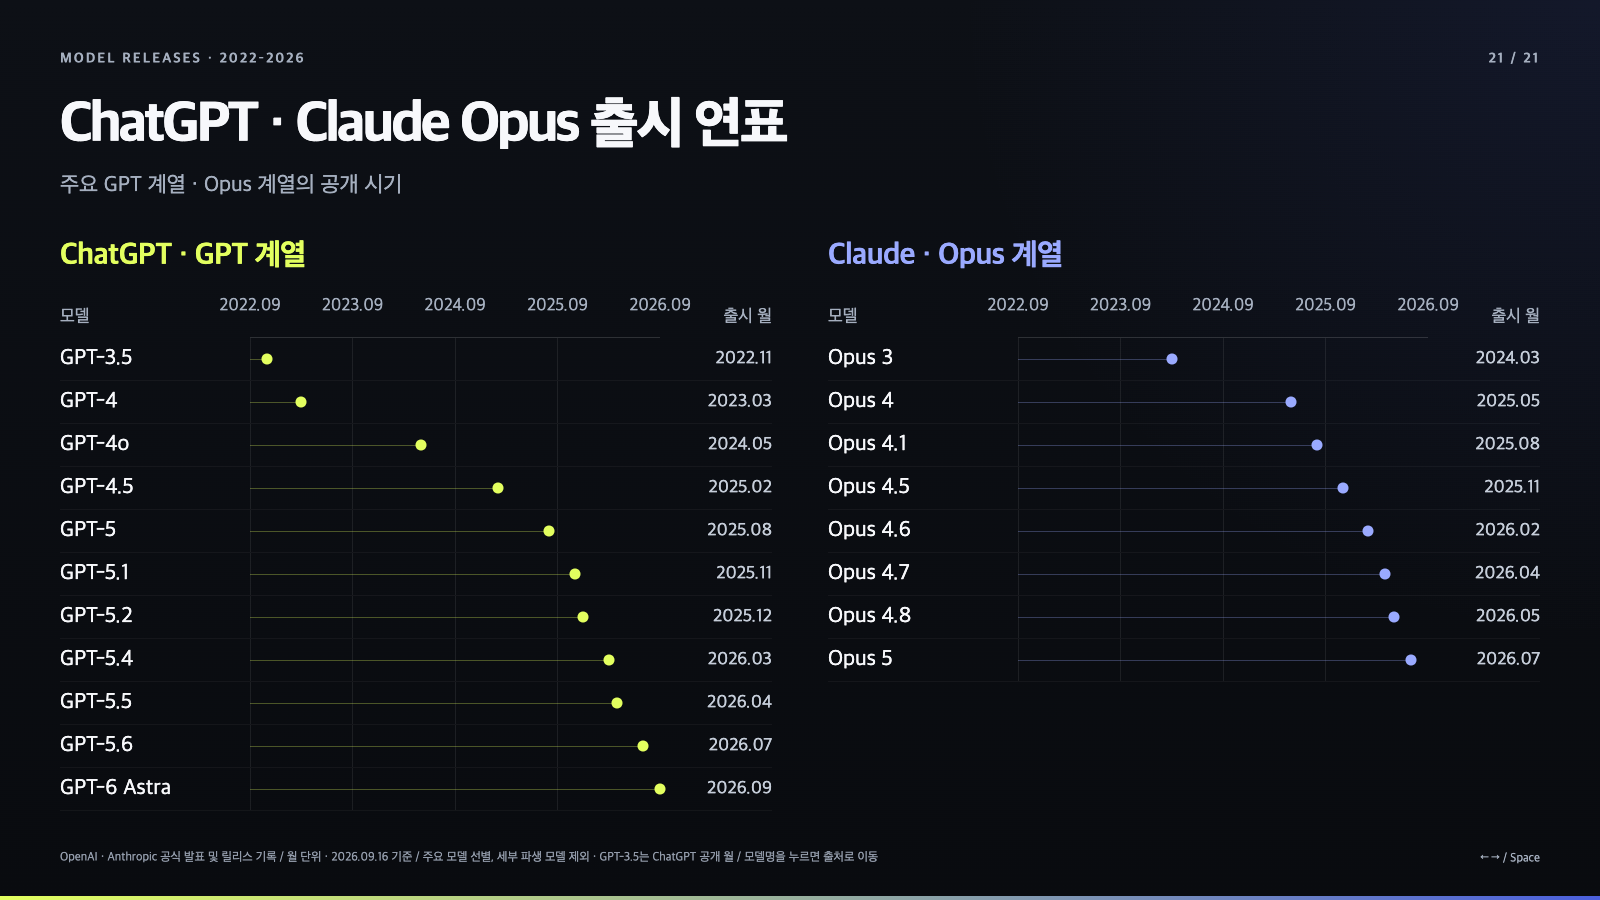
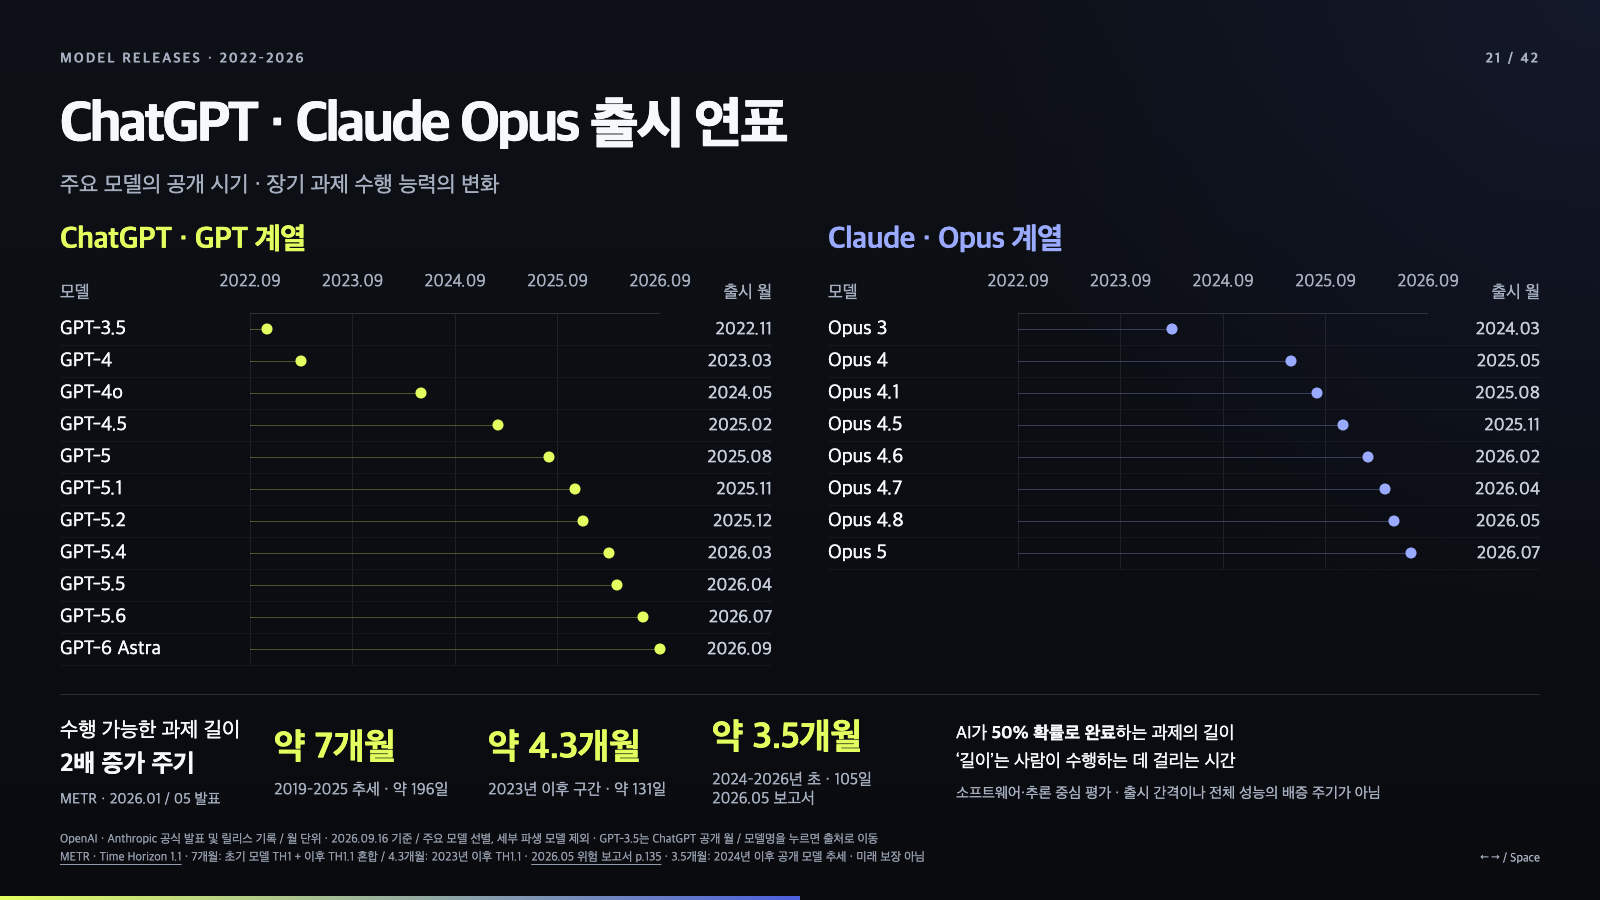
feat(slides): add task horizon doubling rates

diff --git a/newbie2/index.html b/newbie2/index.html
@@ -215,6 +215,8 @@ sup{font-size:.55em;vertical-align:super;letter-spacing:-.01em}
 .go-return{grid-template-rows:minmax(0,1fr) auto auto;gap:25px}.go-history-images{display:grid;grid-template-columns:1fr 1fr 1fr;gap:28px;min-height:0}.go-use-cases{display:grid;grid-template-columns:repeat(3,minmax(0,1fr));gap:28px}.go-use-cases>div{border-top:1px solid var(--line);padding-top:18px}.go-use-cases h3{font-size:26px;color:var(--lime);margin:0 0 12px}.go-use-cases p{font-size:23px;line-height:1.5;margin:0}.go-question{font-size:30px;line-height:1.4;margin:0;color:var(--lime)}
 
 .go-analysis-stage{grid-template-rows:minmax(0,1fr) auto;gap:24px}.go-analysis-main{display:grid;grid-template-columns:2.25fr 1fr;gap:30px;min-height:0}.go-analysis-side{display:flex;flex-direction:column;justify-content:space-between;gap:20px;min-height:0}.go-history-mini{height:138px;display:grid;grid-template-columns:1fr 1fr;gap:15px;flex:none}.go-history-mini figcaption{font-size:15px}.go-analysis-readout h3{font-size:24px;color:var(--lime);margin:0 0 22px}.go-analysis-readout p{font-size:22px;line-height:1.5;margin:16px 0}.go-analysis-readout b{font-size:18px;display:block;color:var(--muted);margin-bottom:5px}.go-analysis-context{font-size:22px;line-height:1.5;margin:0;border-top:1px solid var(--line);padding-top:16px}
+
+.release-with-performance .release-row{height:32px;font-size:20px}.release-with-performance .release-chart h3{margin-bottom:14px}.release-with-performance .release-charts{flex:1;padding-top:0}.release-with-performance .titleblock{padding-bottom:20px}.performance-band{flex:none;display:grid;grid-template-columns:190px 190px 200px 220px minmax(0,1fr);gap:24px;align-items:center;border-top:1px solid var(--line);padding-top:20px;margin-top:15px;min-height:108px}.performance-label{font-size:21px;line-height:1.5}.performance-label strong{font-size:25px}.performance-label small{display:block;font-size:15px;color:var(--muted);margin-top:5px}.performance-stat strong{font-size:36px;color:var(--lime);display:block;line-height:1.25}.performance-stat span{font-size:16px;color:var(--muted);display:block;margin-top:10px}.performance-definition{font-size:18px;line-height:1.6}.performance-definition small{font-size:15px;color:var(--muted);display:block;margin-top:5px}
 </style>
 </head>
 <body>
@@ -356,11 +358,12 @@ sup{font-size:.55em;vertical-align:super;letter-spacing:-.01em}
   <div class="footer"><div class="source"></div><div class="nav">← → / Space</div></div>
 </section>
 
-<section class="slide">
+<section class="slide release-with-performance">
   <div class="header"><div class="kicker">MODEL RELEASES · 2022–2026</div><div class="page"></div></div>
-  <div class="titleblock"><h2>ChatGPT · Claude Opus 출시 연표</h2><p class="sub">주요 GPT 계열 · Opus 계열의 공개 시기</p></div>
+  <div class="titleblock"><h2>ChatGPT · Claude Opus 출시 연표</h2><p class="sub">주요 모델의 공개 시기 · 장기 과제 수행 능력의 변화</p></div>
   <div class="stage equal release-charts"><div class="release-chart "><h3>ChatGPT · GPT 계열</h3><div class="release-axis"><span>모델</span><div class="ticks"><span style="--at:0%">2022.09</span><span style="--at:25%">2023.09</span><span style="--at:50%">2024.09</span><span style="--at:75%">2025.09</span><span style="--at:100%">2026.09</span></div><span style="text-align:right">출시 월</span></div><div class="release-row"><a href="https://openai.com/index/chatgpt/" target="_blank" rel="noopener noreferrer">GPT-3.5</a><div class="plot" style="--at:4.166667%" aria-hidden="true"><span class="dot"></span></div><time datetime="2022-11">2022.11</time></div><div class="release-row"><a href="https://openai.com/index/gpt-4-research/" target="_blank" rel="noopener noreferrer">GPT-4</a><div class="plot" style="--at:12.500000%" aria-hidden="true"><span class="dot"></span></div><time datetime="2023-03">2023.03</time></div><div class="release-row"><a href="https://developers.openai.com/api/docs/changelog" target="_blank" rel="noopener noreferrer">GPT-4o</a><div class="plot" style="--at:41.666667%" aria-hidden="true"><span class="dot"></span></div><time datetime="2024-05">2024.05</time></div><div class="release-row"><a href="https://developers.openai.com/api/docs/changelog" target="_blank" rel="noopener noreferrer">GPT-4.5</a><div class="plot" style="--at:60.416667%" aria-hidden="true"><span class="dot"></span></div><time datetime="2025-02">2025.02</time></div><div class="release-row"><a href="https://developers.openai.com/api/docs/changelog" target="_blank" rel="noopener noreferrer">GPT-5</a><div class="plot" style="--at:72.916667%" aria-hidden="true"><span class="dot"></span></div><time datetime="2025-08">2025.08</time></div><div class="release-row"><a href="https://developers.openai.com/api/docs/changelog" target="_blank" rel="noopener noreferrer">GPT-5.1</a><div class="plot" style="--at:79.166667%" aria-hidden="true"><span class="dot"></span></div><time datetime="2025-11">2025.11</time></div><div class="release-row"><a href="https://developers.openai.com/api/docs/changelog" target="_blank" rel="noopener noreferrer">GPT-5.2</a><div class="plot" style="--at:81.250000%" aria-hidden="true"><span class="dot"></span></div><time datetime="2025-12">2025.12</time></div><div class="release-row"><a href="https://developers.openai.com/api/docs/changelog" target="_blank" rel="noopener noreferrer">GPT-5.4</a><div class="plot" style="--at:87.500000%" aria-hidden="true"><span class="dot"></span></div><time datetime="2026-03">2026.03</time></div><div class="release-row"><a href="https://developers.openai.com/api/docs/changelog" target="_blank" rel="noopener noreferrer">GPT-5.5</a><div class="plot" style="--at:89.583333%" aria-hidden="true"><span class="dot"></span></div><time datetime="2026-04">2026.04</time></div><div class="release-row"><a href="https://developers.openai.com/api/docs/changelog" target="_blank" rel="noopener noreferrer">GPT-5.6</a><div class="plot" style="--at:95.833333%" aria-hidden="true"><span class="dot"></span></div><time datetime="2026-07">2026.07</time></div><div class="release-row"><a href="https://developers.openai.com/api/docs/changelog" target="_blank" rel="noopener noreferrer">GPT-6 Astra</a><div class="plot" style="--at:100.000000%" aria-hidden="true"><span class="dot"></span></div><time datetime="2026-09">2026.09</time></div></div><div class="release-chart opus"><h3>Claude · Opus 계열</h3><div class="release-axis"><span>모델</span><div class="ticks"><span style="--at:0%">2022.09</span><span style="--at:25%">2023.09</span><span style="--at:50%">2024.09</span><span style="--at:75%">2025.09</span><span style="--at:100%">2026.09</span></div><span style="text-align:right">출시 월</span></div><div class="release-row"><a href="https://www.anthropic.com/news/claude-3-family" target="_blank" rel="noopener noreferrer">Opus 3</a><div class="plot" style="--at:37.500000%" aria-hidden="true"><span class="dot"></span></div><time datetime="2024-03">2024.03</time></div><div class="release-row"><a href="https://www.anthropic.com/news/claude-4" target="_blank" rel="noopener noreferrer">Opus 4</a><div class="plot" style="--at:66.666667%" aria-hidden="true"><span class="dot"></span></div><time datetime="2025-05">2025.05</time></div><div class="release-row"><a href="https://www.anthropic.com/news/claude-opus-4-1" target="_blank" rel="noopener noreferrer">Opus 4.1</a><div class="plot" style="--at:72.916667%" aria-hidden="true"><span class="dot"></span></div><time datetime="2025-08">2025.08</time></div><div class="release-row"><a href="https://www.anthropic.com/news/claude-opus-4-5" target="_blank" rel="noopener noreferrer">Opus 4.5</a><div class="plot" style="--at:79.166667%" aria-hidden="true"><span class="dot"></span></div><time datetime="2025-11">2025.11</time></div><div class="release-row"><a href="https://www.anthropic.com/news/claude-opus-4-6" target="_blank" rel="noopener noreferrer">Opus 4.6</a><div class="plot" style="--at:85.416667%" aria-hidden="true"><span class="dot"></span></div><time datetime="2026-02">2026.02</time></div><div class="release-row"><a href="https://www.anthropic.com/news/claude-opus-4-7" target="_blank" rel="noopener noreferrer">Opus 4.7</a><div class="plot" style="--at:89.583333%" aria-hidden="true"><span class="dot"></span></div><time datetime="2026-04">2026.04</time></div><div class="release-row"><a href="https://www.anthropic.com/news/claude-opus-4-8" target="_blank" rel="noopener noreferrer">Opus 4.8</a><div class="plot" style="--at:91.666667%" aria-hidden="true"><span class="dot"></span></div><time datetime="2026-05">2026.05</time></div><div class="release-row"><a href="https://www.anthropic.com/news/claude-opus-5" target="_blank" rel="noopener noreferrer">Opus 5</a><div class="plot" style="--at:95.833333%" aria-hidden="true"><span class="dot"></span></div><time datetime="2026-07">2026.07</time></div></div></div>
-  <div class="footer"><div class="source">OpenAI · Anthropic 공식 발표 및 릴리스 기록 / 월 단위 · 2026.09.16 기준 / 주요 모델 선별, 세부 파생 모델 제외 · GPT-3.5는 ChatGPT 공개 월 / 모델명을 누르면 출처로 이동</div><div class="nav">← → / Space</div></div>
+<div class="performance-band"><div class="performance-label">수행 가능한 과제 길이<br><strong>2배 증가 주기</strong><small>METR · 2026.01 / 05 발표</small></div><div class="performance-stat"><strong>약 7개월</strong><span>2019–2025 추세 · 약 196일</span></div><div class="performance-stat"><strong>약 4.3개월</strong><span>2023년 이후 구간 · 약 131일</span></div><div class="performance-stat"><strong>약 3.5개월</strong><span>2024–2026년 초 · 105일<br>2026.05 보고서</span></div><div class="performance-definition">AI가 <b>50% 확률로 완료</b>하는 과제의 길이<br>‘길이’는 사람이 수행하는 데 걸리는 시간<br><small>소프트웨어·추론 중심 평가 · 출시 간격이나 전체 성능의 배증 주기가 아님</small></div></div>
+  <div class="footer"><div class="source">OpenAI · Anthropic 공식 발표 및 릴리스 기록 / 월 단위 · 2026.09.16 기준 / 주요 모델 선별, 세부 파생 모델 제외 · GPT-3.5는 ChatGPT 공개 월 / 모델명을 누르면 출처로 이동<br><a href="https://metr.org/blog/2026-1-29-time-horizon-1-1/" target="_blank" rel="noopener noreferrer">METR · Time Horizon 1.1</a> · 7개월: 초기 모델 TH1 + 이후 TH1.1 혼합 / 4.3개월: 2023년 이후 TH1.1 · <a href="https://metr.org/risk-report-feb-mar-2026.pdf#page=135" target="_blank" rel="noopener noreferrer">2026.05 위험 보고서 p.135</a> · 3.5개월: 2024년 이후 공개 모델 추세 · 미래 보장 아님</div><div class="nav">← → / Space</div></div>
 </section>
 
 <section class="slide cover"><h1>THE QUESTION</h1></section>

diff --git a/newbie2/review/slide-layout-review.md b/newbie2/review/slide-layout-review.md
@@ -83,3 +83,16 @@
 ## 2026-09-16 · newbie 자료 반영 / 53장
 
 THE ENGINEER 7장, THE CHOICE 5장 추가. 역사 사진 2개, 연구 원본 도표 3개, 사고 사진 1개를 로컬 참조. 기존 1–29장 보존. 53장 × 6 뷰포트 경계 검사 통과, JavaScript 오류 0. 이미지·페이지 이동 확인. 최신 렌더: engineer-choice-overview.png, slide-30.png–slide-53.png.
+
+
+## 21페이지 성능 향상 주기 추가 · 2026-09-17
+
+출시 연표 하단에 METR의 50% task-completion time horizon 배증 주기를 추가. 2026-01-29 Time Horizon 1.1 기준 장기 혼합 추세 196.5일(약 7개월), 2023년 이후 TH1.1 구간 130.8일(약 4.3개월). 평가 과제는 소프트웨어·추론 중심이며 ‘시간’은 사람이 과제를 수행할 시간이다. AI가 연속으로 동작하는 시간이 아니다. 모델 성능 전체·정확도·생산성·출시 간격이 2배가 된다는 뜻이 아니다. 기존 출시 모델 전체를 대상으로 계산한 배증 주기도 아니다.
+
+발표 예시: “출시 간격과 별개로, 수행할 수 있는 과제가 얼마나 길어졌는지도 측정합니다. METR의 이 지표에서는 과제 길이가 장기적으로 약 7개월, 2023년 이후 구간에서는 약 4.3개월마다 두 배가 되는 추세를 보였습니다.”
+
+과제 구성·회귀 구간·평가 환경에 따라 추정값이 달라지며 향후 고정 주기를 보장하지 않는다. 2026-03-20 METR은 평가 포화에 따라 모델링 선택에 대한 민감성이 커짐을 설명했으므로 최신 모델에 대한 무제한 외삽은 하지 않는다.
+출처: https://metr.org/blog/2026-1-29-time-horizon-1-1/ 및 https://metr.org/notes/2026-03-20-impact-of-modelling-assumptions-on-time-horizon-results/
+
+
+21페이지 추가 갱신: METR 2026년 5월 Frontier Risk Report 135쪽의 공개 모델 추세 배증 105일(약 3.5개월)을 함께 표시. 2024-01-01 이후 모델을 대상으로 2026년 2–3월 평가 보고서에서 사용한 추세이며 2025년 단독·2026년 단독 수치가 아니다. 7개월·4.3개월은 1월 발표, 3.5개월은 5월 발표로 구분했다. 자료·방법과 구간이 다른 추정값으로, 이 세 숫자만으로 가속의 인과적 증거라 단정하지 않는다.
